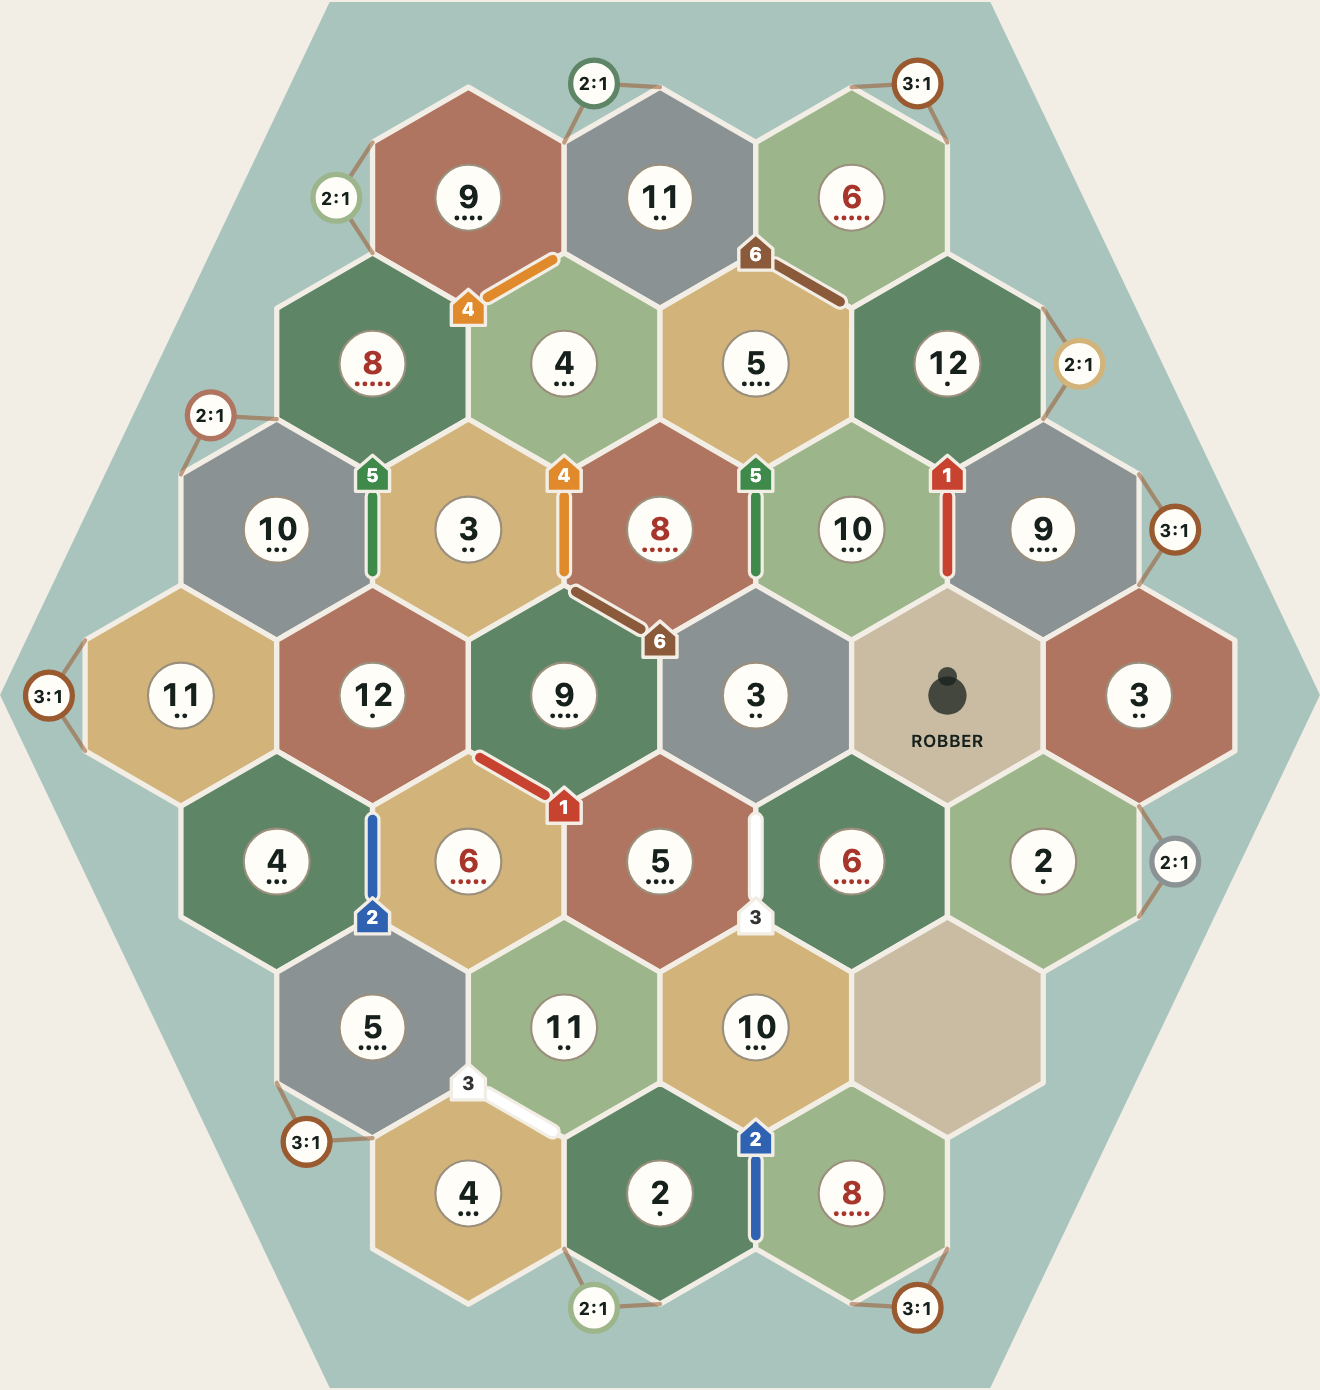
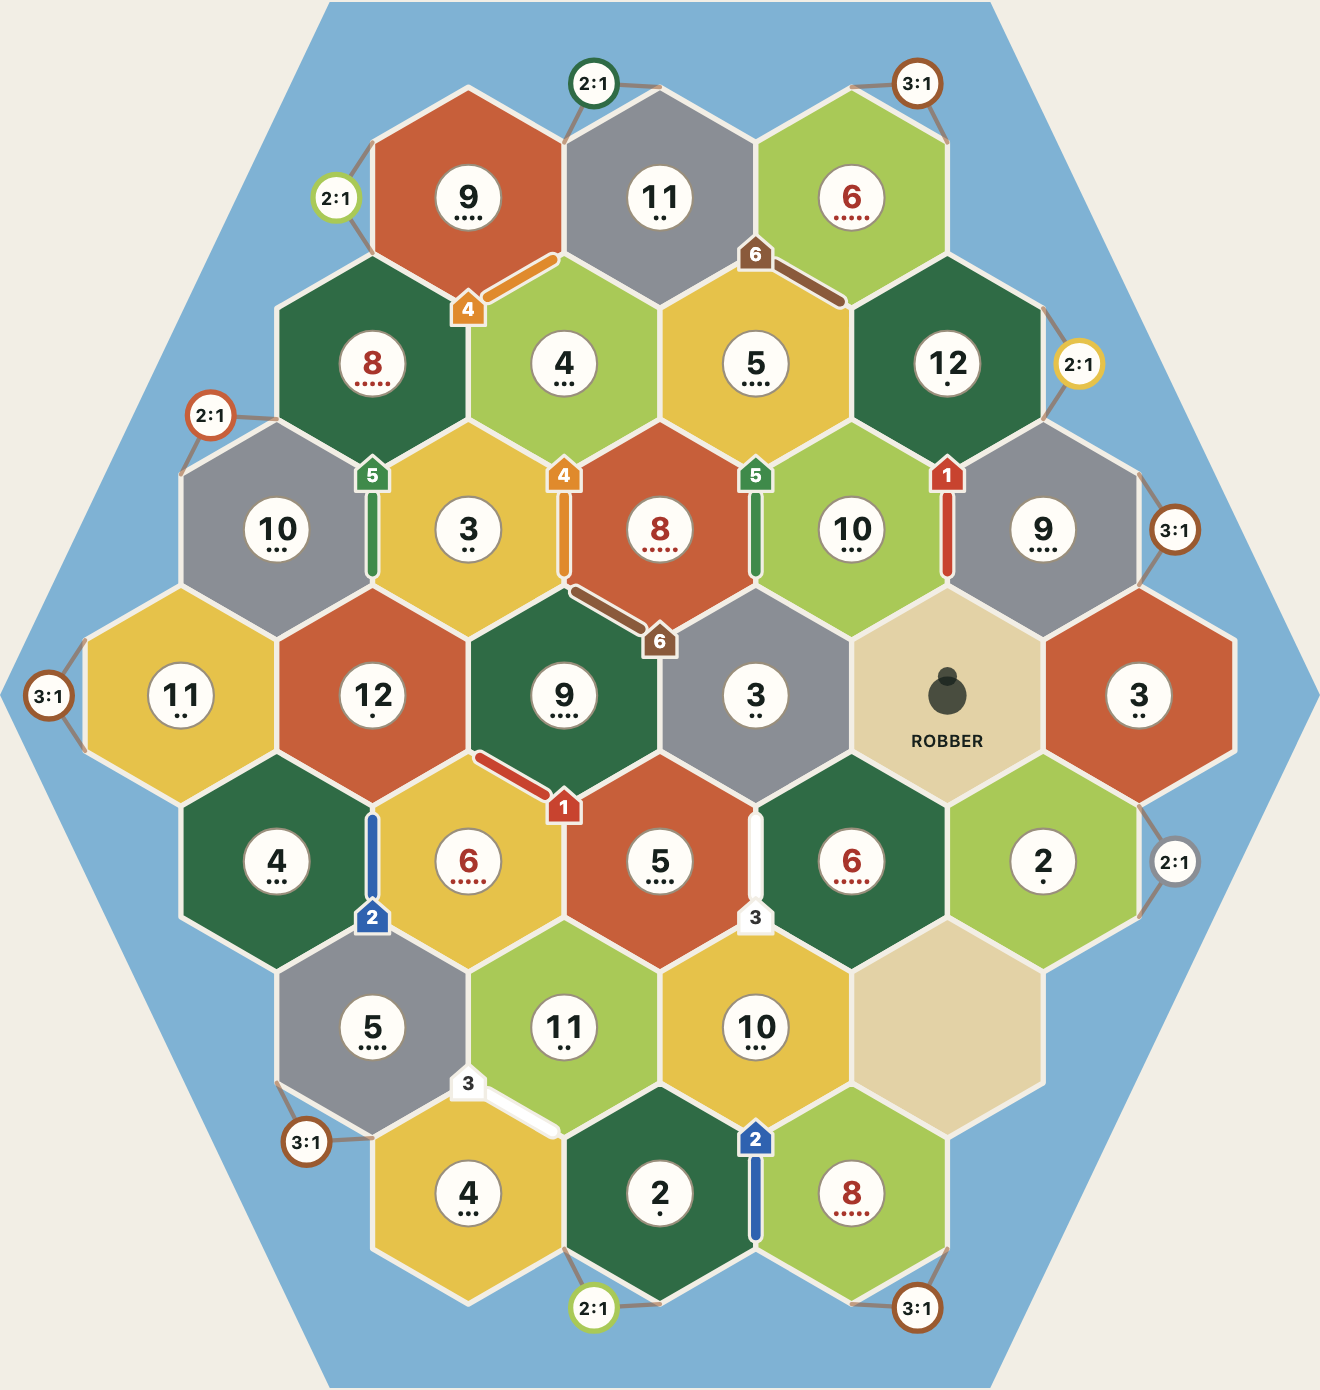
Tiles read as Catan: blue water, one hue per tile in both schemes (D-030); og pair re-rendered; TP-47

diff --git a/index.html b/index.html
@@ -71,13 +71,13 @@
     src:url(/fonts/manrope-latin.woff2) format("woff2");
     unicode-range:U+0000-00FF, U+0131, U+0152-0153, U+02BB-02BC, U+02C6, U+02DA, U+02DC, U+0304, U+0308, U+0329, U+2000-206F, U+20AC, U+2122, U+2191, U+2193, U+2212, U+2215, U+FEFF, U+FFFD;}
 
-  /* Tide tokens (D-020, D-026). Day on bare :root; Night under the media query and data-theme. */
+  /* Tide tokens (D-020, D-026; tile colours D-030). Day on bare :root; Night under the media query and data-theme. */
   :root{
     color-scheme:light;
     --bg:#f2eee5; --ink:#16201c; --muted:#56605b; --line:#ddd5c6;
     --accent:#9a5a30; --on-accent:#fbf8f1;
-    --wood:#5e8566; --sheep:#9cb58a; --wheat:#d2b47a; --brick:#b07560; --ore:#8b9294;
-    --desert:#c9bca2; --seahex:#a9c4bd; --gold:#d8b253;
+    --wood:#2f6b45; --sheep:#a9c957; --wheat:#e6c24a; --brick:#c75f3a; --ore:#8a8e95;
+    --desert:#e3d2a6; --seahex:#7fb2d4; --gold:#e0962a;
     --tok:#fffdf8; --tink:#16201c; --ring:#9a8f7c; --edge:#f2eee5; --port:#9a5a30;
     --card:#f6f2ea; --hot:#a8352b;
     --p1:#c8432f; --p2:#2f62b0; --p3:#ffffff; --p4:#e08a2c; --p5:#3f8a4a; --p6:#8a5a3b;
@@ -87,8 +87,8 @@
       color-scheme:dark;
       --bg:#0d1311; --ink:#ece6d8; --muted:#a7a294; --line:#27312d;
       --accent:#c58a5c; --on-accent:#0d1311;
-      --wood:#4b6b55; --sheep:#7f9970; --wheat:#bfa06a; --brick:#97604c; --ore:#6c7376;
-      --desert:#9b8f78; --seahex:#1f4540; --gold:#c9a24a;
+      --wood:#2a5a3b; --sheep:#7e9f3f; --wheat:#c9a637; --brick:#a4482a; --ore:#666c74;
+      --desert:#ab9d75; --seahex:#1d4b6e; --gold:#c7861f;
       --tok:#ece6d8; --tink:#1a1f1c; --ring:#a7a294; --edge:#0d1311; --port:#c58a5c;
       --card:#111815; --hot:#a8352b;
       --p1:#d4553f; --p2:#4a83d1; --p3:#ece6d8; --p4:#e39545; --p5:#5a9e63; --p6:#9a6a45;
@@ -98,8 +98,8 @@
     color-scheme:dark;
     --bg:#0d1311; --ink:#ece6d8; --muted:#a7a294; --line:#27312d;
     --accent:#c58a5c; --on-accent:#0d1311;
-    --wood:#4b6b55; --sheep:#7f9970; --wheat:#bfa06a; --brick:#97604c; --ore:#6c7376;
-    --desert:#9b8f78; --seahex:#1f4540; --gold:#c9a24a;
+    --wood:#2a5a3b; --sheep:#7e9f3f; --wheat:#c9a637; --brick:#a4482a; --ore:#666c74;
+    --desert:#ab9d75; --seahex:#1d4b6e; --gold:#c7861f;
     --tok:#ece6d8; --tink:#1a1f1c; --ring:#a7a294; --edge:#0d1311; --port:#c58a5c;
     --card:#111815; --hot:#a8352b;
     --p1:#d4553f; --p2:#4a83d1; --p3:#ece6d8; --p4:#e39545; --p5:#5a9e63; --p6:#9a6a45;
@@ -248,8 +248,8 @@
       color-scheme:light;
       --bg:#f2eee5; --ink:#16201c; --muted:#56605b; --line:#ddd5c6;
       --accent:#9a5a30; --on-accent:#fbf8f1;
-      --wood:#5e8566; --sheep:#9cb58a; --wheat:#d2b47a; --brick:#b07560; --ore:#8b9294;
-      --desert:#c9bca2; --seahex:#a9c4bd; --gold:#d8b253;
+      --wood:#2f6b45; --sheep:#a9c957; --wheat:#e6c24a; --brick:#c75f3a; --ore:#8a8e95;
+      --desert:#e3d2a6; --seahex:#7fb2d4; --gold:#e0962a;
       --tok:#fffdf8; --tink:#16201c; --ring:#9a8f7c; --edge:#f2eee5; --port:#9a5a30;
       --card:#f6f2ea; --hot:#a8352b;
       --p1:#c8432f; --p2:#2f62b0; --p3:#ffffff; --p4:#e08a2c; --p5:#3f8a4a; --p6:#8a5a3b;

diff --git a/docs/og-card.html b/docs/og-card.html
@@ -31,9 +31,9 @@
       </div>
       <div class="tag">The Catan generator that deals <b>fair starting settlements</b> to every player, not just a board.</div>
       <div class="dots">
-        <i style="background:#5e8566"></i><i style="background:#b07560"></i>
-        <i style="background:#d2b47a"></i><i style="background:#9cb58a"></i>
-        <i style="background:#8b9294"></i>
+        <i style="background:#2f6b45"></i><i style="background:#c75f3a"></i>
+        <i style="background:#e6c24a"></i><i style="background:#a9c957"></i>
+        <i style="background:#8a8e95"></i>
       </div>
       <div class="url">harbormaster.fyi</div>
     </div>
